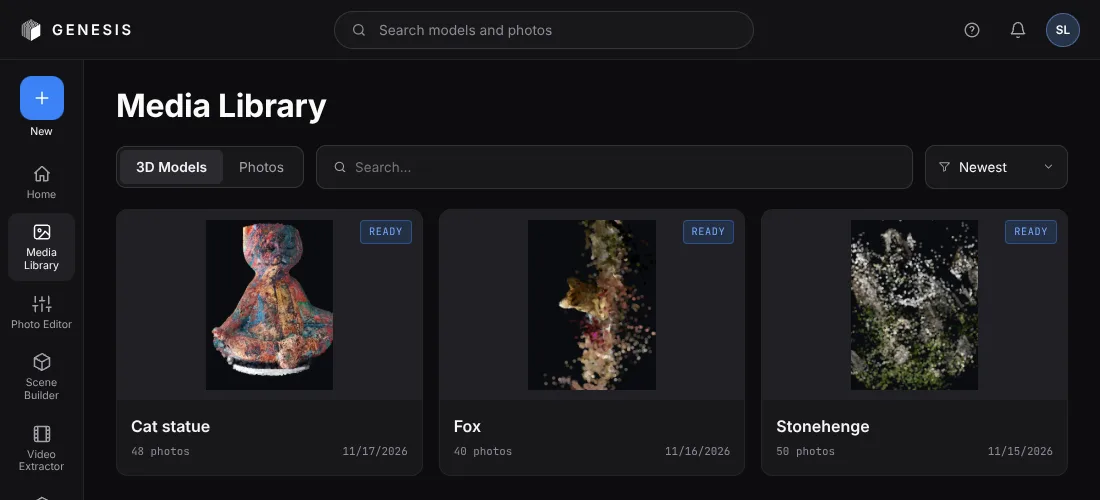
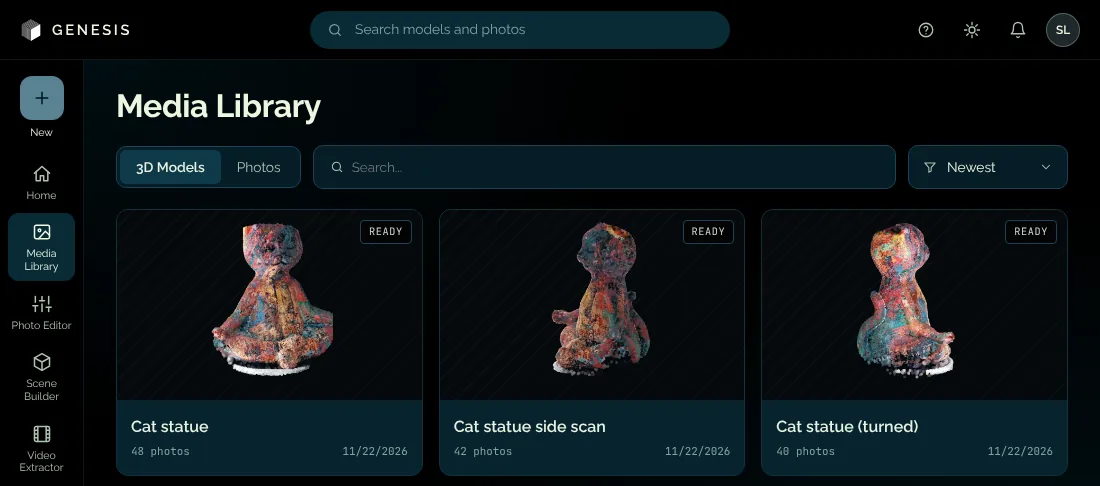
replace landing screen images with updated theme

diff --git a/packages/src/web-app/LandingScreen.css b/packages/src/web-app/LandingScreen.css
@@ -1,7 +1,8 @@
 /* ============================================================
    Landing page (LandingScreen.jsx), laid out like the Genesis landing
-   page design. Colours come from the theme tokens (the palette isn't
-   final).
+   page design. Colours come from the theme tokens.
+   Sizes and spacing use clamp(), so the page scales smoothly as the
+   window resizes: clamp(smallest, scales with width, largest).
    ============================================================ */
 
 .landing-page {
@@ -13,9 +14,10 @@
 
 .landing-container {
     width: 100%;
-    max-width: 1248px;
+    /* 1248px on a laptop, growing to 1600px on a wide monitor. */
+    max-width: clamp(1248px, 82vw, 1600px);
     margin: 0 auto;
-    padding: 0 24px;
+    padding: 0 clamp(16px, 3vw, 48px);
 }
 
 .landing-page h1,
@@ -55,7 +57,7 @@
     display: grid;
     grid-template-columns: 1fr auto 1fr;
     align-items: center;
-    height: 88px;
+    height: clamp(64px, 6vw, 96px);
 }
 
 .landing-logo {
@@ -114,7 +116,7 @@
 /* ---------- Headline ---------- */
 
 .landing-page .landing-hero {
-    padding-top: 100px;
+    padding-top: clamp(48px, 7vw, 128px);
 }
 
 .landing-headline-row {
@@ -125,7 +127,7 @@
 }
 
 .landing-hero h1 {
-    font-size: clamp(2.8rem, 7vw, 5.6rem);
+    font-size: clamp(2.6rem, 6.4vw, 7rem);
     line-height: 1.02;
 }
 
@@ -141,15 +143,16 @@
     display: grid;
     grid-template-columns: minmax(0, 1fr) minmax(0, 1fr) minmax(0, 1.2fr);
     align-items: center;
-    gap: 24px;
-    margin-top: 96px;
+    gap: clamp(16px, 2vw, 40px);
+    margin-top: clamp(48px, 6.5vw, 128px);
 }
 
 .landing-photo-stack {
     position: relative;
     width: 100%;
-    max-width: 440px;
-    height: 320px;
+    max-width: 560px;
+    /* Height follows the width, so the photos keep their places as it shrinks. */
+    aspect-ratio: 10 / 9;
 }
 
 .landing-stack-photo {
@@ -163,32 +166,32 @@
 }
 
     .landing-stack-photo.is-photo-1 {
-        left: 0;
-        top: 30px;
+        left: 4%;
+        top: 8%;
         transform: rotate(-12deg);
     }
 
     .landing-stack-photo.is-photo-2 {
-        left: 18%;
+        left: 22%;
         top: 0;
         transform: rotate(-4deg);
     }
 
     .landing-stack-photo.is-photo-3 {
-        left: 38%;
-        top: 20px;
+        left: 42%;
+        top: 5%;
         transform: rotate(6deg);
     }
 
     .landing-stack-photo.is-photo-4 {
-        left: 12%;
-        top: 110px;
+        left: 16%;
+        top: 28%;
         transform: rotate(-3deg);
     }
 
     .landing-stack-photo.is-photo-5 {
-        left: 44%;
-        top: 70px;
+        left: 48%;
+        top: 18%;
         transform: rotate(8deg);
     }
 
@@ -248,9 +251,9 @@
 .landing-steps {
     display: grid;
     grid-template-columns: repeat(3, minmax(0, 1fr));
-    gap: 48px;
-    margin-top: 88px;
-    padding-top: 28px;
+    gap: clamp(24px, 4vw, 72px);
+    margin-top: clamp(48px, 6vw, 112px);
+    padding-top: clamp(24px, 2.2vw, 40px);
     border-top: 1px solid var(--forma-border);
 }
 
@@ -262,20 +265,22 @@
 }
 
 .landing-step h3 {
-    font-size: 1.15rem;
+    font-size: clamp(1.35rem, 0.9rem + 1vw, 1.9rem);
+    letter-spacing: -0.01em;
 }
 
 .landing-step p {
-    margin-top: 10px;
+    max-width: 36ch;
+    margin-top: 12px;
     color: var(--forma-text-muted);
-    font-size: 0.92rem;
+    font-size: clamp(0.92rem, 0.82rem + 0.3vw, 1.08rem);
     line-height: 1.6;
 }
 
 /* ---------- Sections ---------- */
 
 .landing-page .landing-section {
-    padding-top: 160px;
+    padding-top: clamp(96px, 11vw, 200px);
 }
 
 .landing-section-head {
@@ -286,13 +291,13 @@
 }
 
     .landing-section-head h2 {
-        font-size: clamp(2rem, 4vw, 3.4rem);
+        font-size: clamp(2rem, 4vw, 4.4rem);
     }
 
     .landing-section-head p {
-        max-width: 380px;
+        max-width: 420px;
         color: var(--forma-text-muted);
-        font-size: 0.98rem;
+        font-size: clamp(0.95rem, 0.85rem + 0.3vw, 1.12rem);
         line-height: 1.6;
     }
 
@@ -300,15 +305,15 @@
 .landing-features {
     display: flex;
     flex-direction: column;
-    gap: 96px;
-    margin-top: 96px;
+    gap: clamp(56px, 7vw, 136px);
+    margin-top: clamp(48px, 6.5vw, 128px);
 }
 
 .landing-feature {
     display: grid;
     grid-template-columns: minmax(0, 2fr) minmax(0, 3fr);
     align-items: center;
-    gap: 64px;
+    gap: clamp(32px, 4.5vw, 88px);
 }
 
     .landing-feature.is-flipped {
@@ -320,13 +325,13 @@
         }
 
     .landing-feature h3 {
-        font-size: 1.9rem;
+        font-size: clamp(1.5rem, 1rem + 1.2vw, 2.5rem);
     }
 
     .landing-feature p {
         margin-top: 16px;
         color: var(--forma-text-muted);
-        font-size: 1.05rem;
+        font-size: clamp(0.98rem, 0.85rem + 0.35vw, 1.2rem);
         line-height: 1.7;
     }
 
@@ -343,7 +348,7 @@
     align-items: center;
     gap: 12px;
     max-width: none;
-    margin-top: 72px !important;
+    margin-top: clamp(48px, 5vw, 96px) !important;
     color: var(--forma-text-soft);
     font-size: 0.95rem;
 }
@@ -358,8 +363,8 @@
     display: grid;
     grid-template-columns: repeat(4, minmax(0, 1fr));
     align-items: end;
-    gap: 16px;
-    margin-top: 48px;
+    gap: clamp(12px, 1.2vw, 24px);
+    margin-top: clamp(32px, 3.5vw, 64px);
 }
 
 .landing-gallery-item img {
@@ -385,9 +390,9 @@
 .landing-plans {
     display: grid;
     grid-template-columns: repeat(3, minmax(0, 1fr));
-    gap: 48px;
-    margin-top: 40px;
-    padding-top: 36px;
+    gap: clamp(24px, 4vw, 72px);
+    margin-top: clamp(32px, 3vw, 56px);
+    padding-top: clamp(24px, 2.5vw, 44px);
     border-top: 1px solid var(--forma-border);
 }
 
@@ -395,7 +400,7 @@
     display: flex;
     align-items: baseline;
     gap: 12px;
-    font-size: 1.6rem;
+    font-size: clamp(1.4rem, 1rem + 0.8vw, 2rem);
 }
 
     .landing-plan h3 small {
@@ -430,12 +435,12 @@
 }
 
 .landing-page .landing-cta {
-    padding-top: 160px;
-    padding-bottom: 120px;
+    padding-top: clamp(96px, 11vw, 200px);
+    padding-bottom: clamp(72px, 8vw, 160px);
 }
 
 .landing-cta h2 {
-    font-size: clamp(2.2rem, 5vw, 4rem);
+    font-size: clamp(2.2rem, 5vw, 5rem);
     line-height: 1.05;
 }
 
@@ -510,10 +515,6 @@
 }
 
 @media (max-width: 560px) {
-    .landing-nav-inner {
-        height: 64px;
-    }
-
     .landing-nav-actions {
         gap: 8px;
     }
@@ -522,32 +523,13 @@
             padding: 8px 12px;
         }
 
-    .landing-page .landing-hero {
-        padding-top: 56px;
-    }
-
     .landing-hero-visual {
         grid-template-columns: minmax(0, 1fr);
-        margin-top: 56px;
     }
 
     .landing-photo-stack {
-        max-width: 320px;
-        height: 250px;
+        max-width: 340px;
         margin: 0 auto;
-    }
-
-    .landing-page .landing-section {
-        padding-top: 104px;
-    }
-
-    .landing-features {
-        gap: 64px;
-        margin-top: 56px;
-    }
-
-    .landing-feature h3 {
-        font-size: 1.5rem;
     }
 
     .landing-footer-inner {

diff --git a/packages/src/web-app/LandingScreen.jsx b/packages/src/web-app/LandingScreen.jsx
@@ -76,7 +76,7 @@ const FEATURES = [
         title: 'Media library',
         text: 'Every model and every photo batch, together. Source photos stay linked to the model they built, so you can go back and rebuild with a better set.',
         image: mediaLibraryScreenshot,
-        imageAlt: 'The Media Library showing the cat statue, fox and Stonehenge models',
+        imageAlt: 'The Media Library showing four cat statue models',
     },
     {
         title: 'Scene builder',
